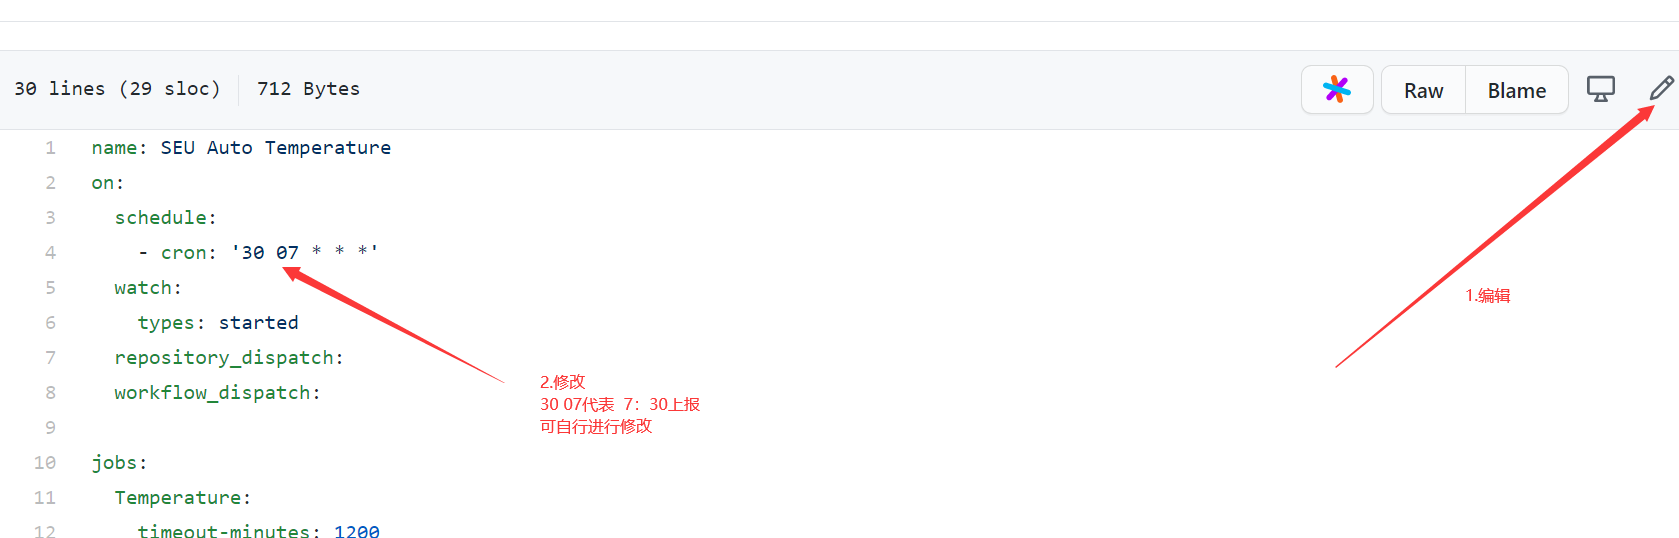
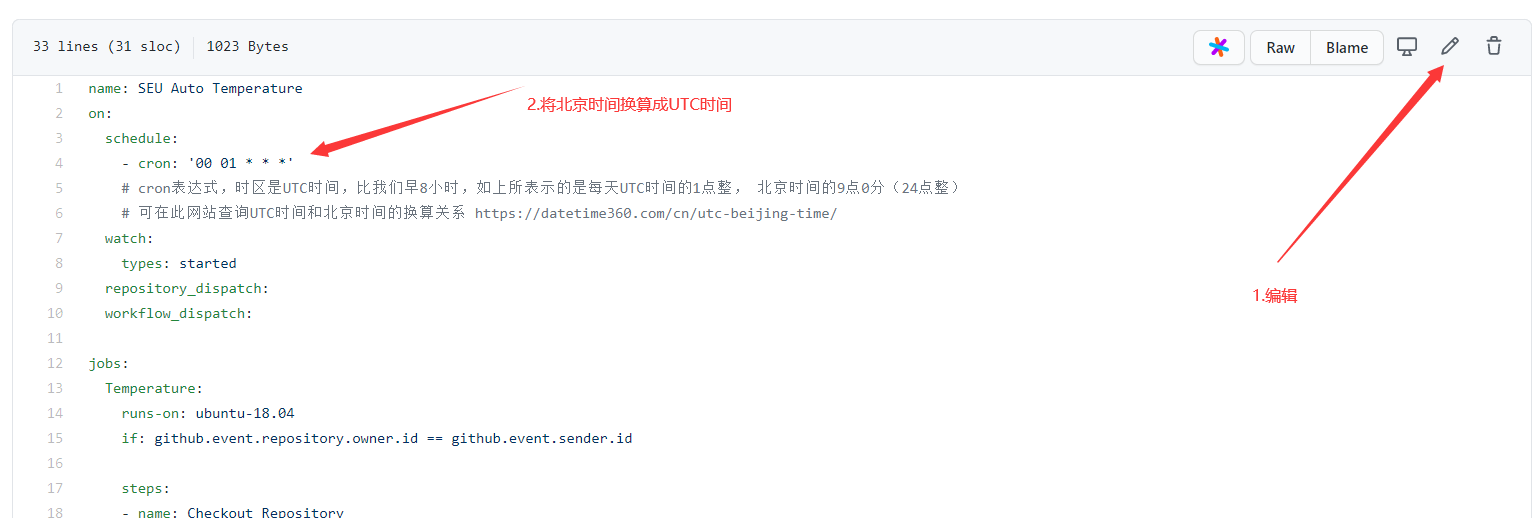
修改说明

diff --git a/README.md b/README.md
@@ -10,13 +10,17 @@
 
 ## 使用步骤
 
-1. fork 该项目![fork](/img/1.png)
+Ⅰ. **首先 fork 本项目到自己的仓库**![fork](/img/1.png)
 
-2. 设置自己的信息
+Ⅱ. **进入自己 fork 的仓库，点击 Settings-> Secrets-> New repository secret，它们将作为配置项，在应用启动时传入程序。**
 
-   Setting→Secrets→New repository secret
+**例如下图。添加 其中1 个 Secrets，其名称为ID，值为一卡通号**
 
-   ![Secrets](/img/2.png)
+![Secrets](/img/5.png)
+
+**所有的可用Secrets及说明**
+
+![Secrets](/img/2.png)
 
 | Secret     | 解释                                                         |
 | ---------- | ------------------------------------------------------------ |
@@ -26,7 +30,7 @@
 | KU         | 酷推的Skey（可选）可用于qq推送上报通知。学习链接https://cp.xuthus.cc/ |
 | SERVERCHAN | 新版server酱的Skey（可选）可用于微信推送上报通知。学习链接https://sct.ftqq.com/ |
 
-3. 如果需要修改上报时间，修改 **.github/workflows/auto_temperature.yml**
+Ⅲ. **如果需要修改上报时间，修改.github/workflows/auto_temperature.yml**
 ![cron](/img/3.png)
 
 ## Stargazers over time
